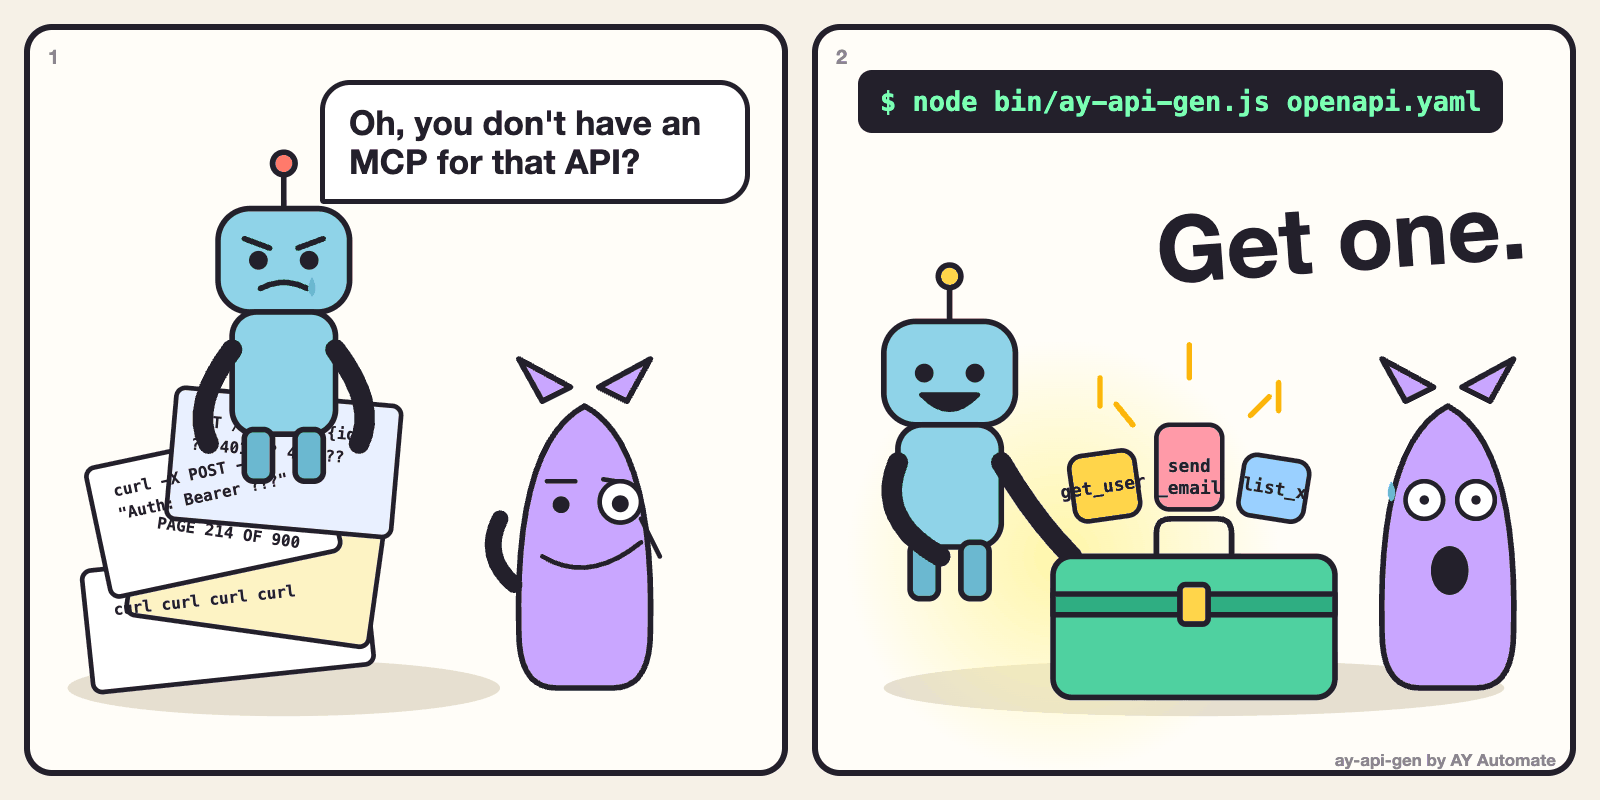
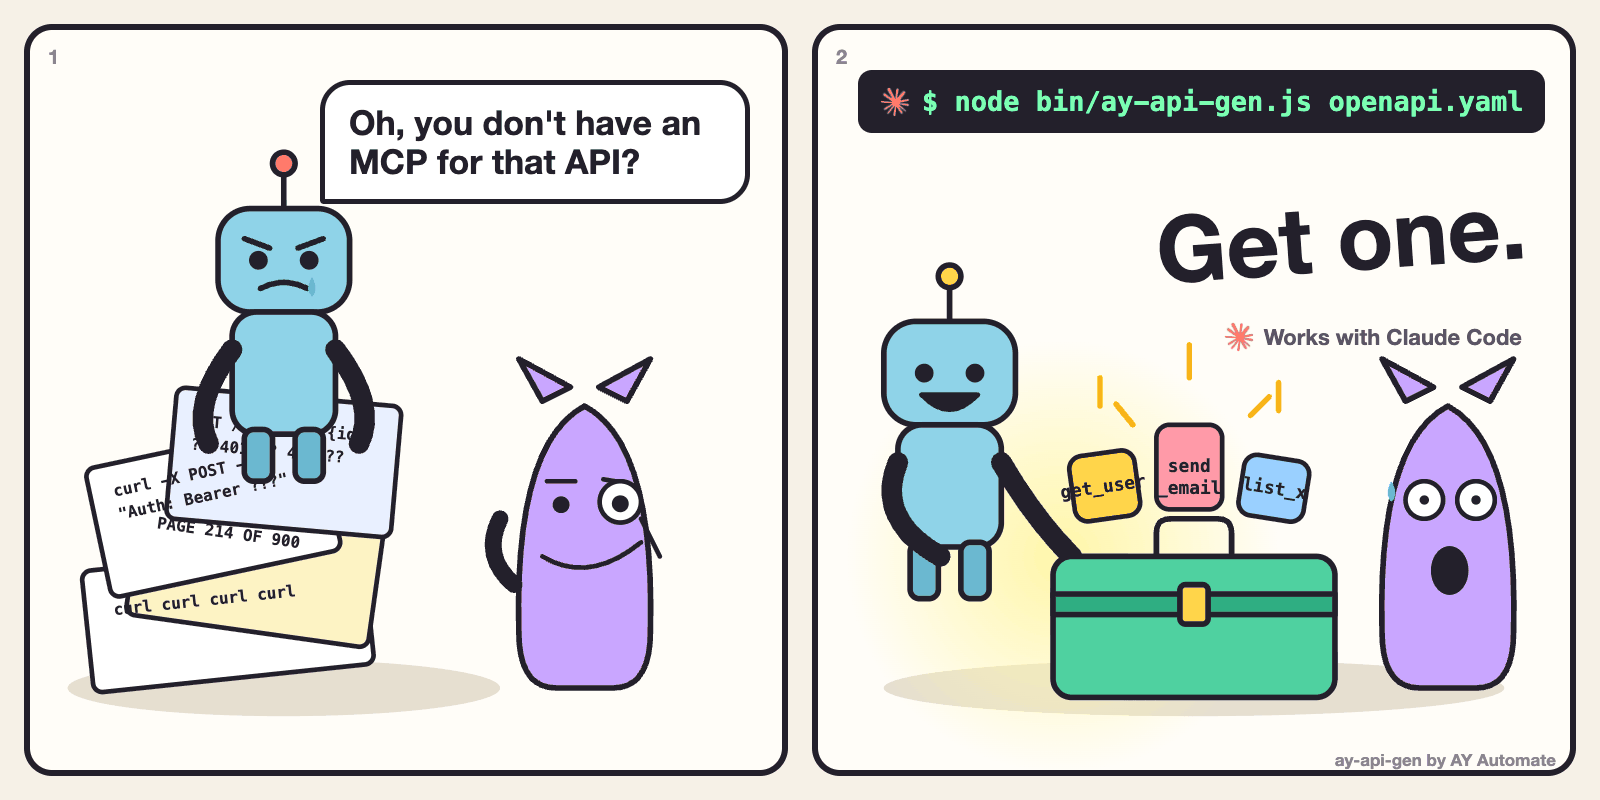
docs: add Claude Code mark to hero

Changed region(s): [[0.5312, 0.0625, 0.9688, 0.1875], [0.75, 0.4062, 0.9688, 0.4375]]

diff --git a/README.md b/README.md
@@ -4,6 +4,8 @@
 
 <p align="center"><img src="docs/assets/hero.png" alt="Oh, you don't have an MCP for that API? Get one." width="800"></p>
 
+![Works with Claude Code](https://img.shields.io/badge/works%20with-Claude%20Code-D97757)
+
 **Turn any OpenAPI spec into MCP tools and a CLI for Claude Code.**
 
 [![License: MIT](https://img.shields.io/badge/license-MIT-green.svg)](LICENSE)
